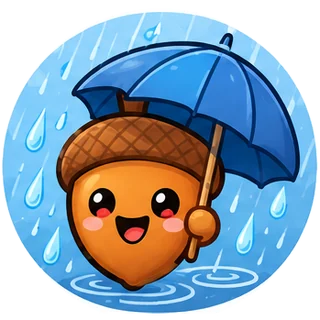
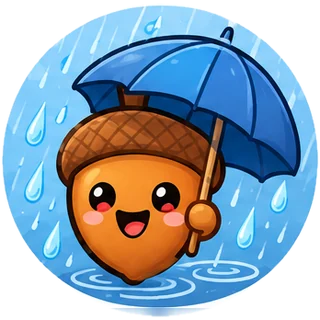
Stickers: centre each acorn on its circle and show the whole sticker
Claude-Session: https://claude.ai/code/session_01CFQbaqAbUZ8WJEgL5MyVZC

diff --git a/tools/make-stickers.py b/tools/make-stickers.py
@@ -1,0 +1,43 @@
+"""Turns the acorn pictures into round stickers: centred on their circle, nothing clipped."""
+from PIL import Image, ImageFilter
+import numpy as np, sys
+from scipy import ndimage
+U = sys.argv[1] if len(sys.argv) > 1 else "./"   # folder with the original pictures
+order = {1:'e1ada605',2:'6f93269f',3:'eeb54f7d',4:'68073575',5:'bf5cbc79',6:'4d72632a',7:'6851e2d4',8:'24b29888',9:'a8806bf3',10:'35b78d7c',11:'f40abd9b',12:'0e986664'}
+PAD = 60
+for m, f in order.items():
+    a0 = np.asarray(Image.open(U + f + '-image.png').convert('RGBA'))
+    white0 = a0[:, :, :3].astype(int).min(axis=2) > 236
+    H, W = white0.shape
+    pts = []
+    for y in range(int(H * .2), int(H * .8)):
+        xs = np.where(~white0[y])[0]
+        if len(xs): pts += [(xs[0], y), (xs[-1], y)]
+    P = np.array(pts, float)
+    for _ in range(3):
+        A = np.c_[2 * P[:, 0], 2 * P[:, 1], np.ones(len(P))]; b = (P ** 2).sum(1)
+        cx, cy, c = np.linalg.lstsq(A, b, rcond=None)[0]; r = np.sqrt(c + cx * cx + cy * cy)
+        d = np.abs(np.hypot(P[:, 0] - cx, P[:, 1] - cy) - r); P = P[d < max(2, np.percentile(d, 80))]
+    a = np.pad(a0, ((PAD, PAD), (PAD, PAD), (0, 0)), mode='edge')
+    known = np.pad(np.ones((H, W), bool), PAD, constant_values=False)
+    cx += PAD; cy += PAD
+    yy, xx = np.mgrid[0:known.shape[0], 0:known.shape[1]]
+    dist = np.hypot(xx - cx, yy - cy)
+    inside = dist <= r - 2
+    a = np.where((~known)[:, :, None], np.asarray(Image.fromarray(a).filter(ImageFilter.GaussianBlur(6))), a)
+    pale = a[:, :, :3].astype(int).min(axis=2) > 200
+    # parts of the drawing that poke out of the circle (hats, stems): only pieces attached to the circle
+    out_parts = known & ~pale & (dist > r - 4)
+    lab, n = ndimage.label(out_parts)
+    ring = (dist > r - 4) & (dist < r - 1)
+    sizes = ndimage.sum(np.ones_like(lab), lab, range(n + 1))
+    attached = {i for i in set(np.unique(lab[ring & out_parts])) - {0} if sizes[i] > 150}   # skip thin shadow slivers
+    poke = np.isin(lab, list(attached)) & (dist > r - 2)
+    keep = inside | poke
+    alpha = Image.fromarray((keep * 255).astype('uint8')).filter(ImageFilter.GaussianBlur(0.8))
+    img = Image.fromarray(a.astype('uint8')); img.putalpha(alpha)
+    ys, xs = np.where(keep)
+    half = int(np.ceil(max(cx - xs.min(), xs.max() - cx, cy - ys.min(), ys.max() - cy))) + 2
+    box = tuple(int(round(v)) for v in (cx - half, cy - half, cx + half, cy + half))
+    img.crop(box).resize((320, 320), Image.LANCZOS).save(f"assets/stickers/{m:02d}.webp", 'WEBP', quality=86, method=6)
+    print(m, 'poking out:', int(poke.sum()), 'px')
